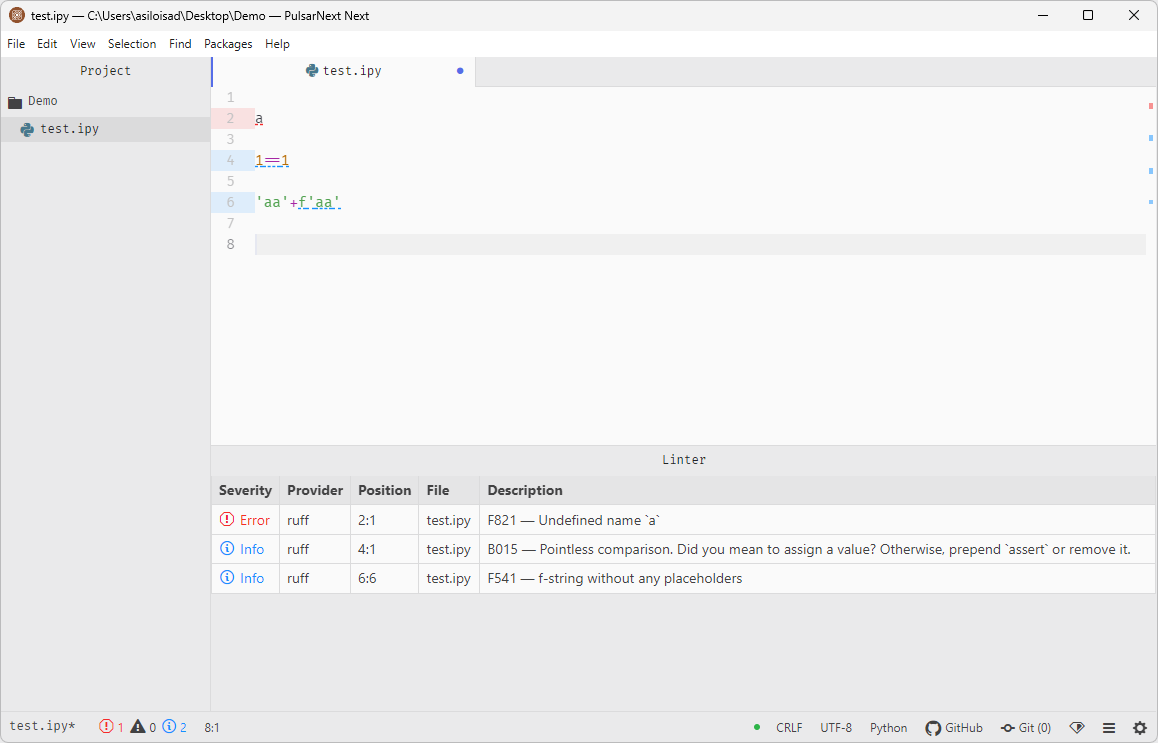
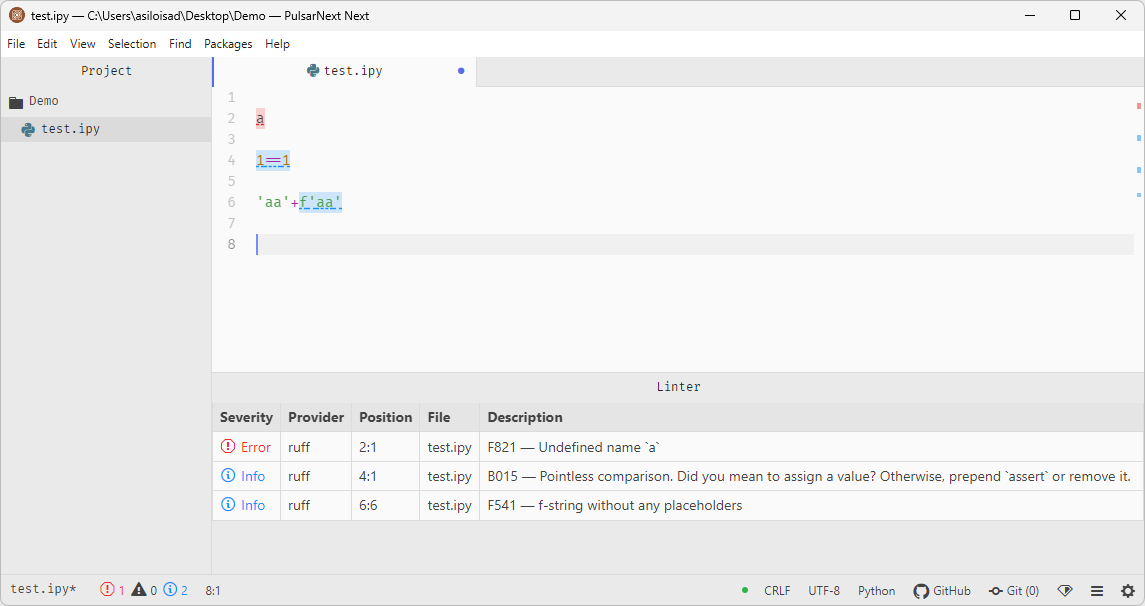
restore highlight

diff --git a/lib/main.js b/lib/main.js
@@ -95,11 +95,11 @@ module.exports = {
     editor.decorateMarkerLayer(buffer.linterUI.text.info,
       { type:'text', class:'linter-text-info' })
     editor.decorateMarkerLayer(buffer.linterUI.high.error,
-      { type:'line-number', class:'linter-high-error' })
+      { type:'highlight', class:'linter-high-error' })
     editor.decorateMarkerLayer(buffer.linterUI.high.warning,
-      { type:'line-number', class:'linter-high-warning' })
+      { type:'highlight', class:'linter-high-warning' })
     editor.decorateMarkerLayer(buffer.linterUI.high.info,
-      { type:'line-number', class:'linter-high-info' })
+      { type:'highlight', class:'linter-high-info' })
   },
 
   getBuffers() {
